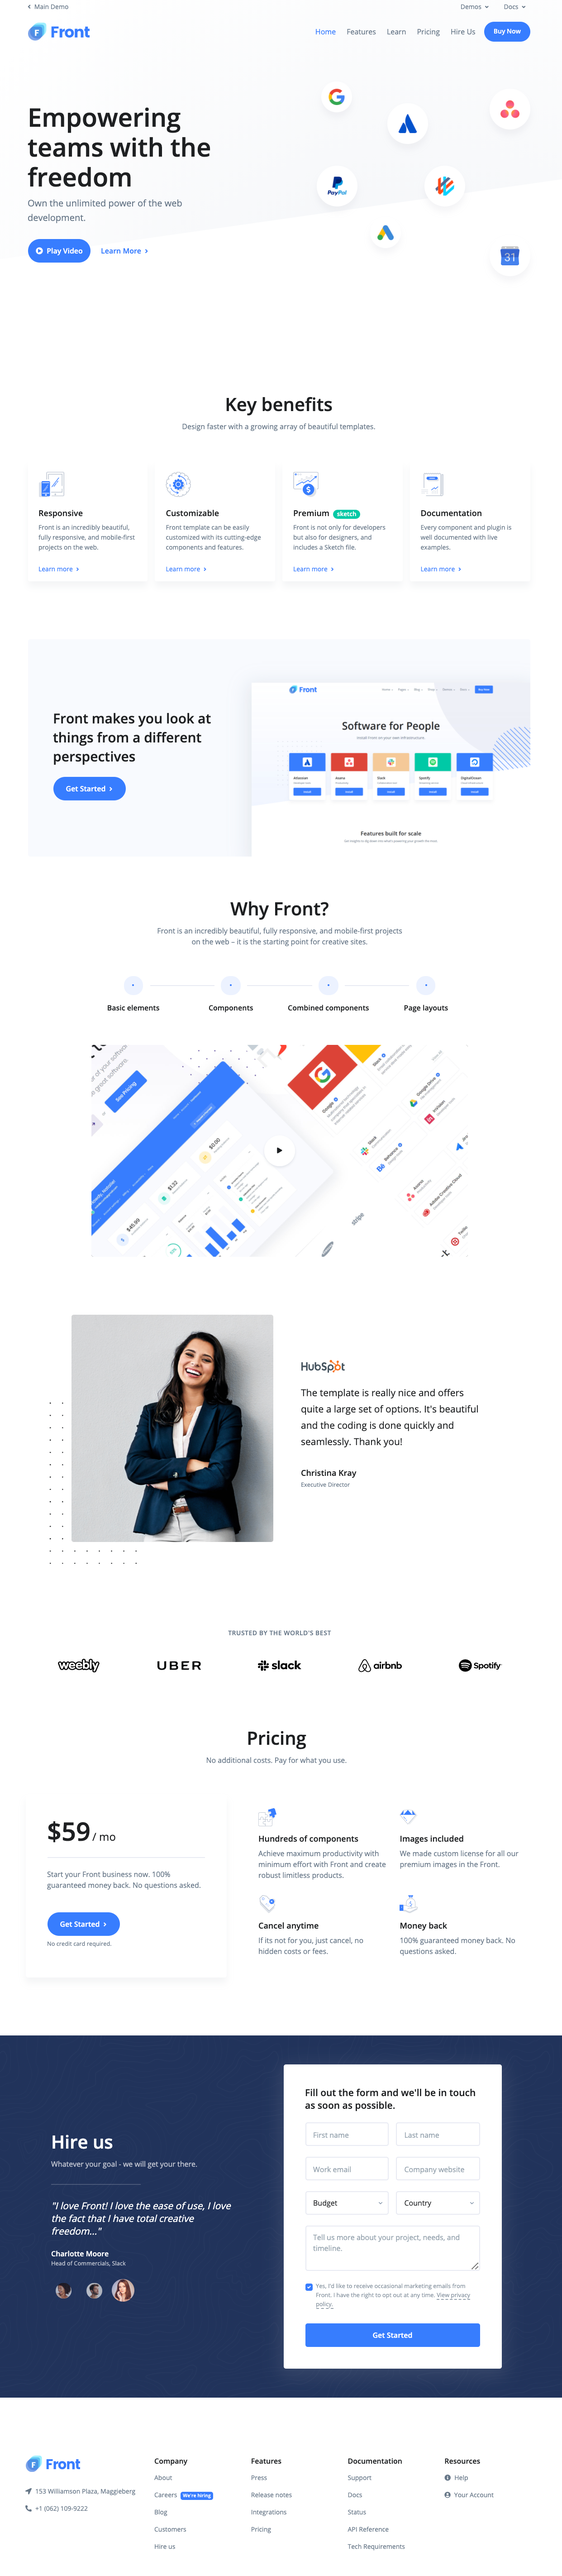
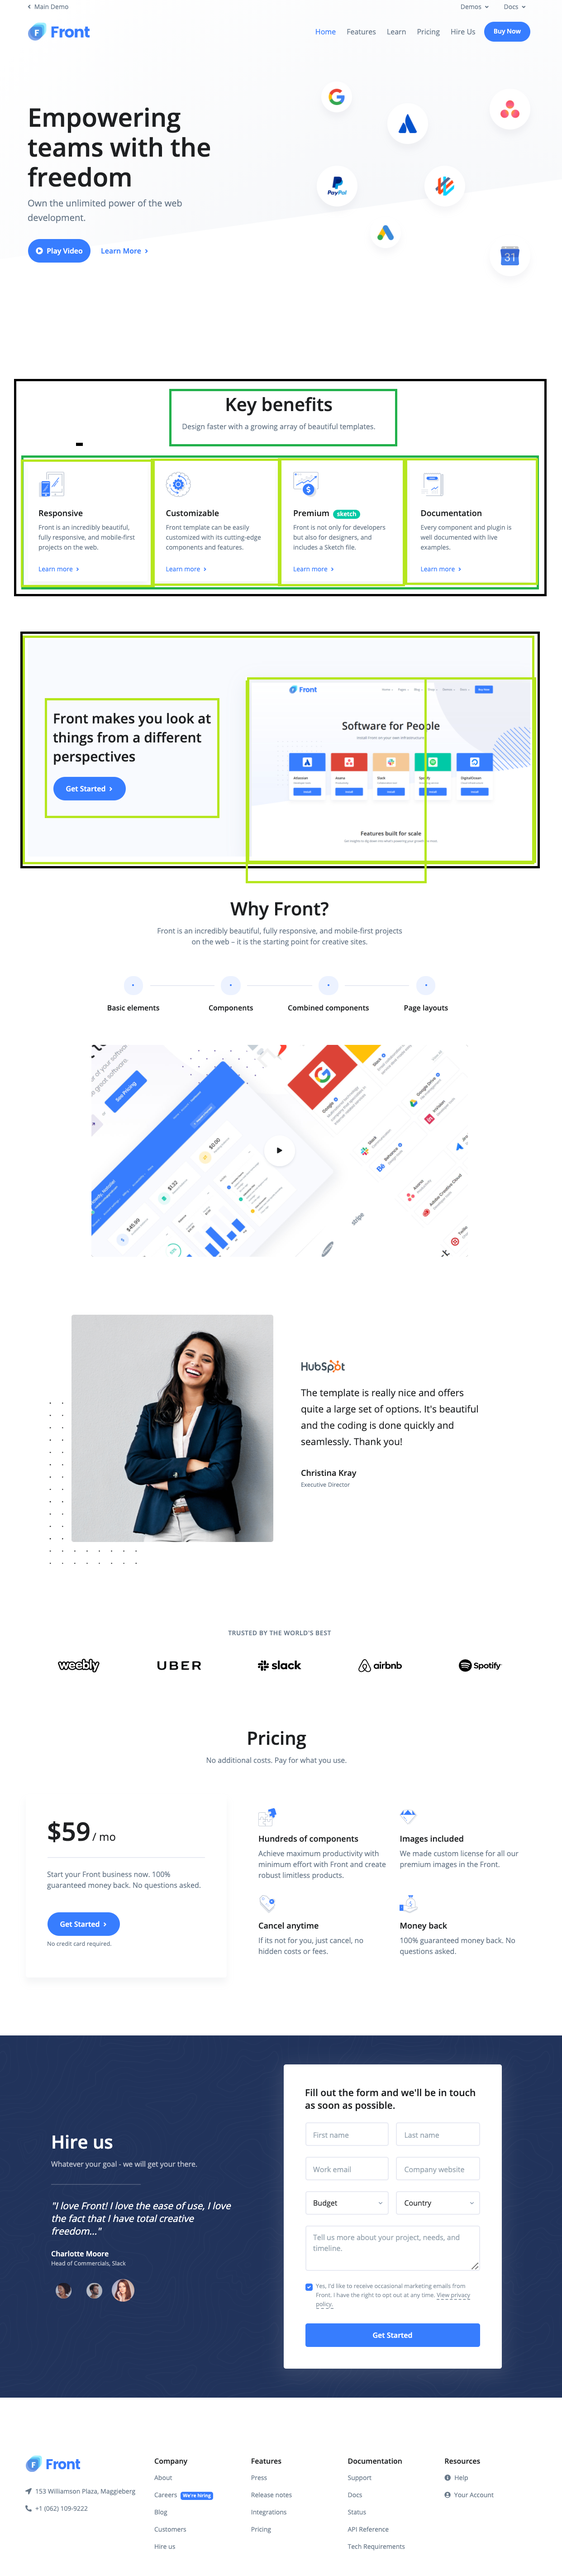
page made down to price section

Changed region(s): [[0.0, 0.1555, 0.9791, 0.3422], [0.7343, 0.28, 0.7649, 0.3422], [0.3671, 0.28, 0.3977, 0.3422]]

diff --git a/index.html b/index.html
@@ -131,7 +131,7 @@
            <a class="btn" href="">Get Started <i class="fas fa-chevron-right"></i></a>
          </div>
         <div class="banner1">
-          <img src="/Week-5-saas-app-assets/banners/banner_one.jpg" alt="">
+          <img src="/Week-5-saas-app-assets/banners/banner_one.jpg" alt="banner1">
         </div>
        </div>
      </div>
@@ -146,22 +146,18 @@
           <div class="dots-inline">
            <div class="dot1">
             <div class="dots">.</div>
-            
            </div>
             <span class="line"></span>
             <div class="dot2" >
-              <div class="dots">.</div>
-             
+              <div class="dots">.</div> 
              </div>
             <span class="line"></span>
             <div class="dot3" >
               <div class="dots">.</div>
-             
              </div>
             <span class="line"></span>
             <div class="dot4">
               <div class="dots">.</div>
-              
              </div>
           </div>
             <div class="bottom-text-container">
@@ -178,9 +174,92 @@
               <h4>Page layouts</h4>
              </div>
             </div>
+            <div class="vid-link">
+              <a class="video-button" href="https://youtu.be/9kkEMHatgZ0">
+                 <i class="fas fa-play"></i>
+              </a>
+              <img src="/Week-5-saas-app-assets/banners/banner_two.jpg" alt="banner2">
+            </div>
        </div>
      </div>
    </section>
+   <section class="testimonial-section">
+      <div class="container">
+      <div class="testimonial">
+       <div class="testimonial-picture">
+         <img class="background-dots" src="/Week-5-saas-app-assets/.gitignore/icons/dots.svg" alt="dots-background">
+         <img class="main-pic" src="/Week-5-saas-app-assets/people/woman_three.jpg" alt="Christina Kray">
+       </div>
+       <div class="test-text-container">
+         <img src="/Week-5-saas-app-assets/.gitignore/company_logos/hubspot.svg" alt="hubspot">
+         <h4>The template is really nice and offers <br> quite a large set of options. It's beautiful <br> and the coding is done quickly and <br> seamlessly. Thank you!
+        <br><br>
+        Christina Kray
+        </h4>
+        <p>Executive Director</p>
+       </div>
+      </div>
+      </div>  
+    </section>
+    <section class="trusted-section">
+      <div class="container">
+        <p>TRUSTED BY THE WORLDS'S BEST</p>
+        <div class="company-logos">
+        <div class="logos weebly">
+          <img src="/Week-5-saas-app-assets/.gitignore/company_logos/weebly.svg" alt="weebly">
+        </div> 
+        <div class="logos uber">
+          <img src="/Week-5-saas-app-assets/.gitignore/company_logos/uber.svg" alt="uber">
+        </div> 
+        <div class="logos slack">
+          <img src="/Week-5-saas-app-assets/.gitignore/company_logos/slack.svg" alt="slack">
+        </div> 
+        <div class="logos airbnb">
+          <img src="/Week-5-saas-app-assets/.gitignore/company_logos/airbnb.svg" alt="airbnb">
+        </div> 
+        <div class="logos spotify">
+          <img src="/Week-5-saas-app-assets/.gitignore/company_logos/spotify.svg" alt="spotify">
+        </div> 
+       </div>
+      </div> 
+    </section>
+    <section class="pricing-section">
+      <div class="container">
+        <div class="price-text-container">
+          <h2>Pricing</h2>
+          <p>No additional costs. Pay for what you use</p>
+        </div>
+        <div class="pricing-info">
+          <div class="price-card">
+            <h2>$59<small> /mo</small></h2>
+            <hr>
+            <p class="main-text">Start your Front business now. 100% <br>guaranteed money back. No questions asked.</p>
+            <a class="btn pricing-btn" href="">Get Started <i class="fas fa-chevron-right"></i></a>
+            <p class="small-print-btn">No credit card required</p>
+          </div>
+          <div class="components">
+            <img class="price-icons" src="/Week-5-saas-app-assets/.gitignore/icons/components.svg" alt="components icon">
+            <h4>Hundreds of components</h4>
+            <p>Achieve maximum productivity with <br>minimum effort with Front and create <br> robust limitless products.</p>
+          </div>
+          <div class="images">
+            <img class="price-icons" src="/Week-5-saas-app-assets/.gitignore/icons/images.svg" alt="images icon">
+            <h4>Images included</h4>
+            <p>We made custom license for all our <br>premium images in the the Front.</p>
+          </div>
+          <div class="cancel">
+            <img class="price-icons" src="/Week-5-saas-app-assets/.gitignore/icons/cancel.svg" alt="cancel icon">
+            <h4>Cancel anytime</h4>
+            <p>If its not for you , just cancel, no <br>hidden costs or fees.</p>
+          </div>
+          <div class="money">
+            <img class="price-icons" src="/Week-5-saas-app-assets/.gitignore/icons/moneyback.svg" alt="money back icon">
+            <h4>Money Back</h4>
+            <p>100% guaranteed money back. No questions asked.</p>
+          </div>
+        </div>
+      </div>    
+    </section>
   </div>
 </body>
 </html>

diff --git a/Week-5-saas-app-assets/css folder/styles.css b/Week-5-saas-app-assets/css folder/styles.css
@@ -74,6 +74,7 @@
 
 .block-text {
   margin: 0 8.125rem;
+  margin-right: auto;
   position: relative;
   top: var(--size-30);
 }
@@ -106,6 +107,7 @@
   margin-left: 6.25rem;
   position: relative;
   top: var(--size-40);
+  margin-right: var(--size-50);
 }
 
 .google {
@@ -164,6 +166,7 @@
 .key-cards {
   display: flex;
   gap: var(--size-30);
+  justify-content: center;
 }
 
 .cards {
@@ -228,27 +231,27 @@
 
 .perspective-container {
   display: flex;
-  height: 480px;
+  height: 30rem;
   background-color: var(--bg-color);
-
-
 }
 
 .text-container {
-  margin: auto;
+  margin: auto auto auto 5rem;
+  font-size: var(--size-20);
 }
 
 .banner1 {
- width: 580px;
+ width: 41.5625rem;
   margin-top: auto;
 }
 
 .why-front {
-  margin-bottom: 100px;
+  margin-bottom: var(--size-100);
+  height: 46.25rem;
 }
 
 .why-front-container {
-  width: 800px;
+  width: 50rem;
   margin: auto;
  
 }
@@ -263,14 +266,14 @@
 .dots-inline {
   display: flex;
   justify-content: space-evenly;
-  width: 700px;
+  width: 43.75rem;
   margin: auto;
 }
 .dots {
-  font-size: 26px;
+  font-size: 1.625rem;
   text-align: center;
-  width: 55px;
-  height: 55px;
+  width: 3.4375rem;
+  height: 3.4375rem;
   background-color: var(--bg-color);
   color: var(--button-color);
   border-radius: 50%;
@@ -280,7 +283,7 @@
 .line {
   flex-grow: 0.3;
   border-top: 1px solid lightgray;
-  margin-top: 28px;
+  margin-top: 1.75rem;
 }
 
 .bottom-text-container {
@@ -289,9 +292,120 @@
 }
 
 .dot1-text {
-  margin-left: -10px;
+  margin-left: -0.625rem;
 }
 
 .dot2-text {
-  margin-left: 35px;
+  margin-left: 2.1875rem;
+}
+
+.vid-link {position: relative;}
+
+.video-button {
+  background-color: var(--white);
+  color: var(--black);
+  width: 55px;
+  height: 55px;
+  position: absolute;
+  top: 50%;
+  left: 50%;
+  transform: translate(-50%, -50%);
+  border-radius: 50%;
+  box-shadow: 0 10px 20px rgb(222 222 222 / 30%);
+}
+
+.fa-play {
+  position: relative;
+  top: 30%;
+  left: 40%;
+}
+
+.testimonial {
+  display: flex;
+  justify-content: center;
+  margin: var(--size-150) 0;
+}
+
+.testimonial-picture {
+  position: relative;
+  margin-right: var(--size-20);
+  width: 500px;
+}
+
+.background-dots {
+  width: 211px;
+  margin-left: 10px;
+}
+
+.main-pic {
+  width: 434px;
+  position: absolute;
+  left: 52px;
+  top: -156px;
+}
+
+.test-text-container img {
+  width: 100px;
+}
+
+.test-text-container h4 {
+  margin-bottom: 0;
+  font-size: 18px;
+}
+
+.trusted-section p {
+  text-align: center;
+  margin-bottom: var(--size-30);
+}
+
+.company-logos {
+  display: flex;
+  width: 800px;
+  margin: auto;
+  justify-content: space-between;
+}
+
+.logos {width: 100px;}
+
+.pricing-section {margin-bottom: var(--size-150);}
+
+.price-text-container {
+  text-align: center;
+  margin-top: var(--size-100);
+  margin-bottom: var(--size-50);
+}
+
+.price-text-container h2 {
+  font-size: var(--size-40);
+  margin-bottom: 0;
+}
+
+.pricing-info {
+  display: grid;
+  grid-template-columns: auto auto auto;
+  grid-template-rows: auto auto;
+  margin-left: 3.75rem;
+}
+
+.price-card {
+ width: 25rem;
+ padding: var(--size-30);
+ box-shadow: 0 0 10px rgb(48 63 100 / 15%);
+ background-color: var(--white);
+ border-radius: 8px;
+ height: 23.4375rem;
+ grid-row-start: 1;
+ grid-row-end: 3;
+}
+
+.price-icons {width: 3.4375rem;}
+
+.pricing-btn {
+  padding: 15px 20px;
+}
+
+.small-print-btn {
+  margin-top: 10px;
+  font-size: 10px;
+
 }

diff --git a/Week-5-saas-app-assets/css folder/defaults.css b/Week-5-saas-app-assets/css folder/defaults.css
@@ -32,7 +32,7 @@ body {
 }
 
 .main-container {
-  width: 75rem;
+  /* width: 75rem; */
   margin: auto;
 }
 
